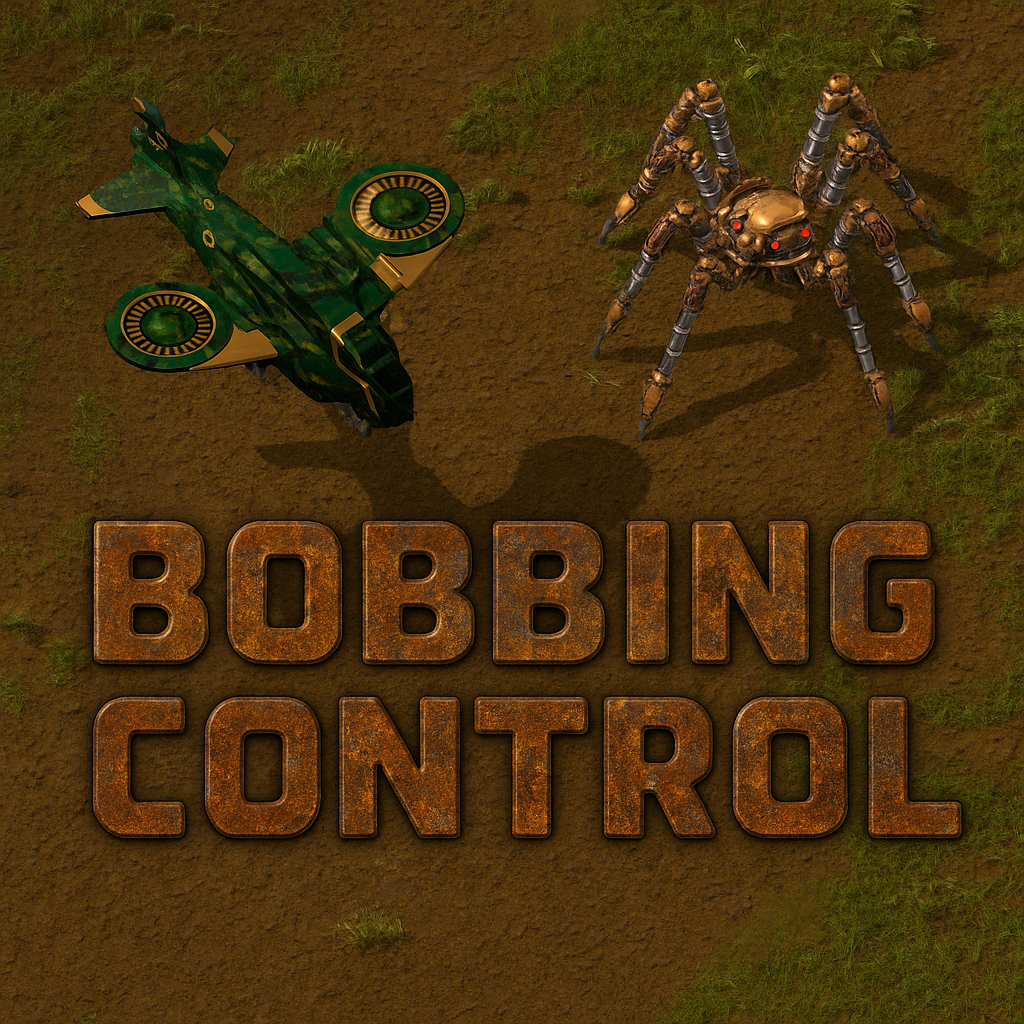
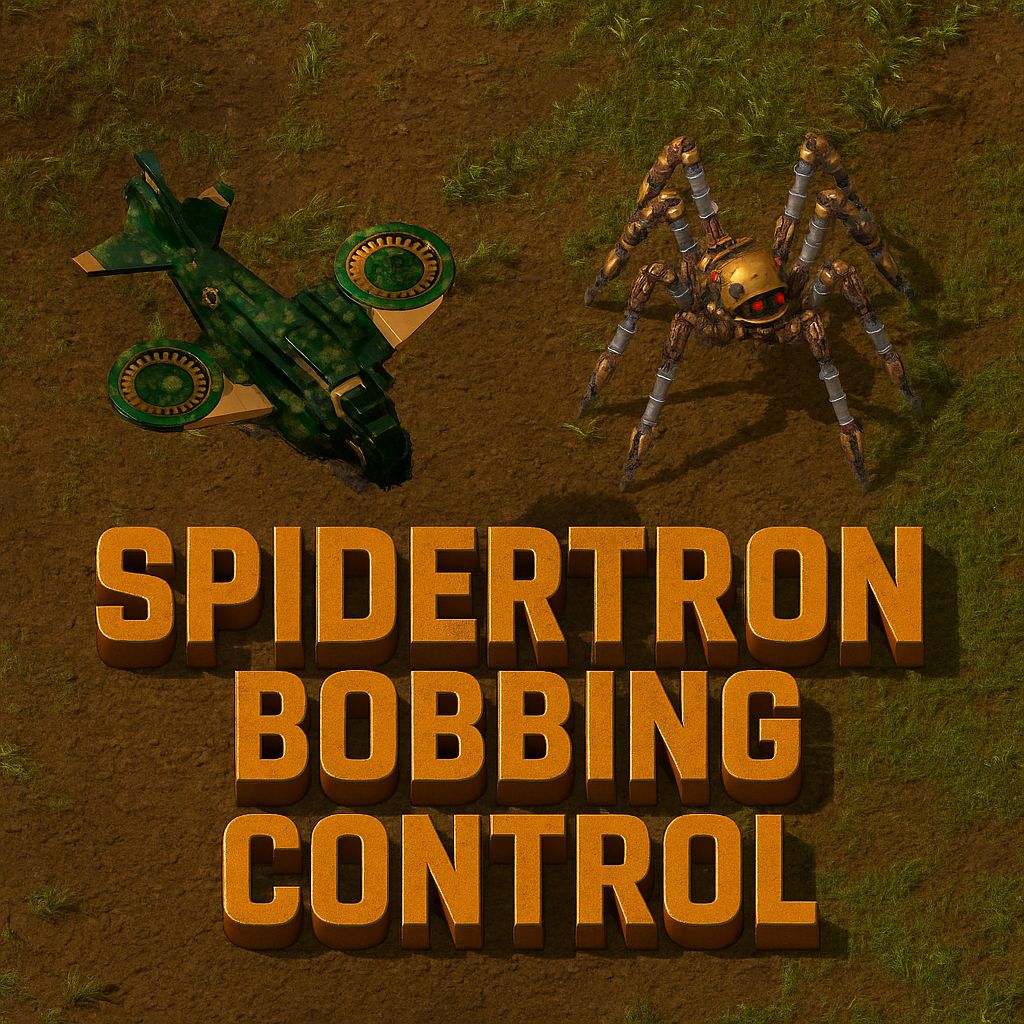
Version 0.0.2

diff --git a/readme.md b/readme.md
@@ -1,10 +1,18 @@
-#### Bobbing Control  
+#### Spidertron Bobbing Control
 
-Adds a startup setting to adjust the torso bobbing rate of Spidertrons and similar modded entities.  
+Adds a startup setting to adjust the torso bobbing rate of Spidertrons and similar modded entities.
 
-The default mod setting is 0.1  
-To disable the bobbing, set the value to 0  
-The maximum value is 3  
+---
 
-#### Alternate locales:  
-cs, de, es, fr, it, ja, ko, pl, pt-BR, ru, tr, uk, zh-CN, zh-TW  
+| Description      | Value        |
+|------------|--------------------|
+| Disabled (no bobbing) | 0 |
+| *Mod default (breathing)* | *0.1* |
+| Game default | 1.0 |
+| Maximum (vibrating) | 5.0 |
+
+---
+
+#### Alternate locales
+
+cs, de, es, fr, it, ja, ko, pl, pt-BR, ru, tr, uk, zh-CN, zh-TW
